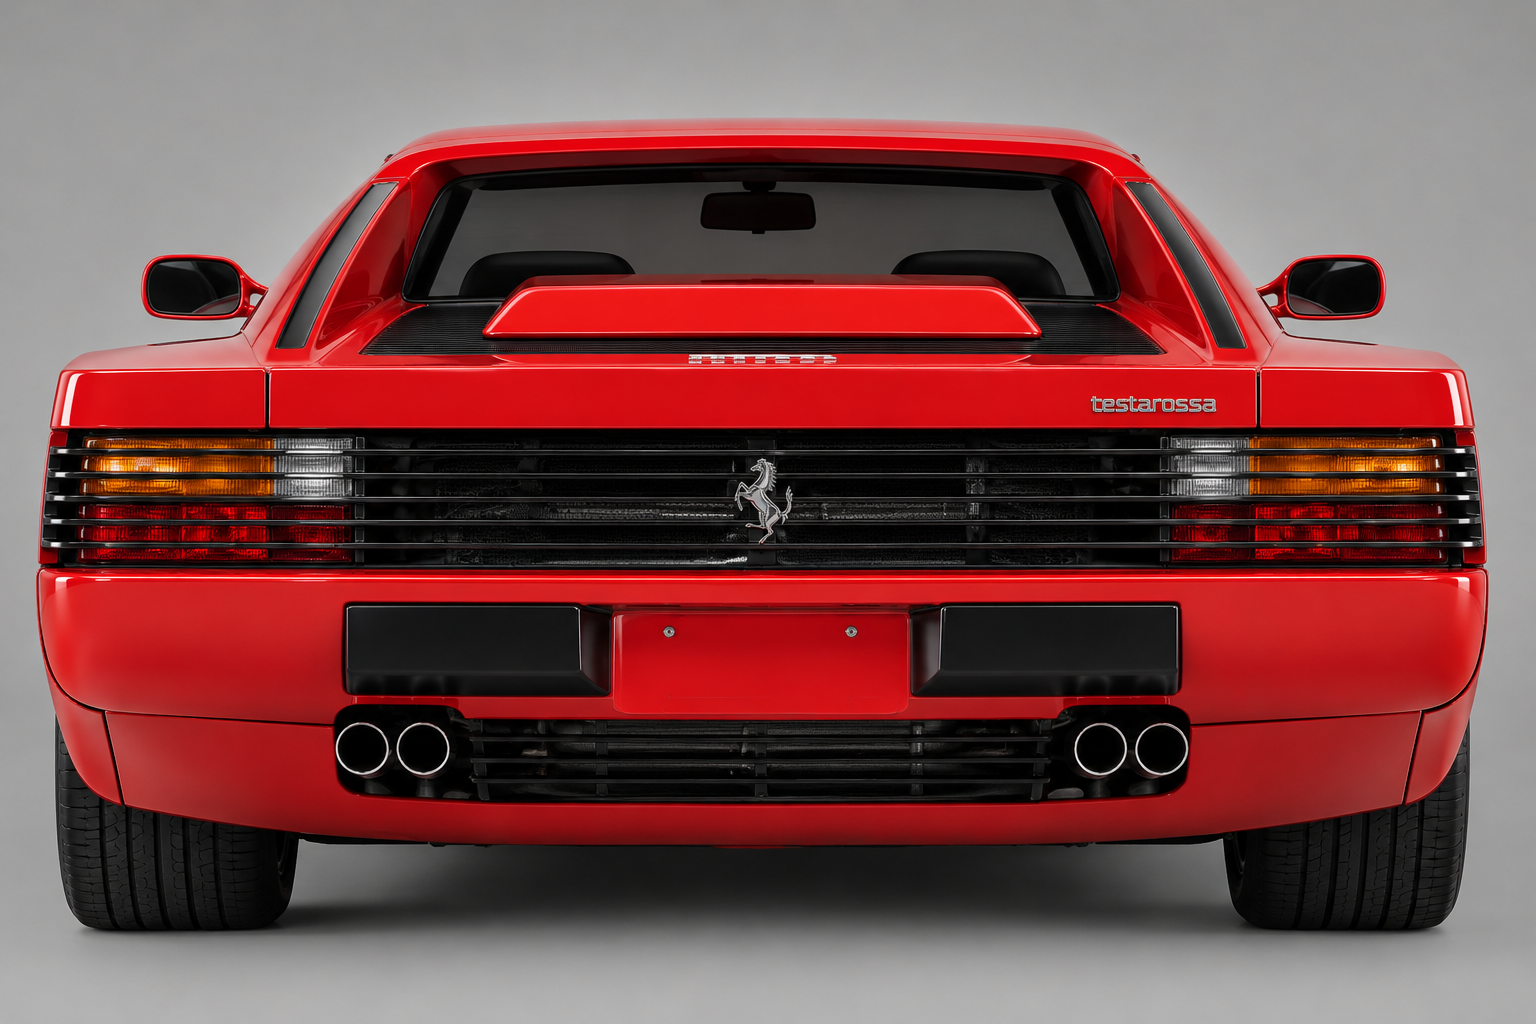
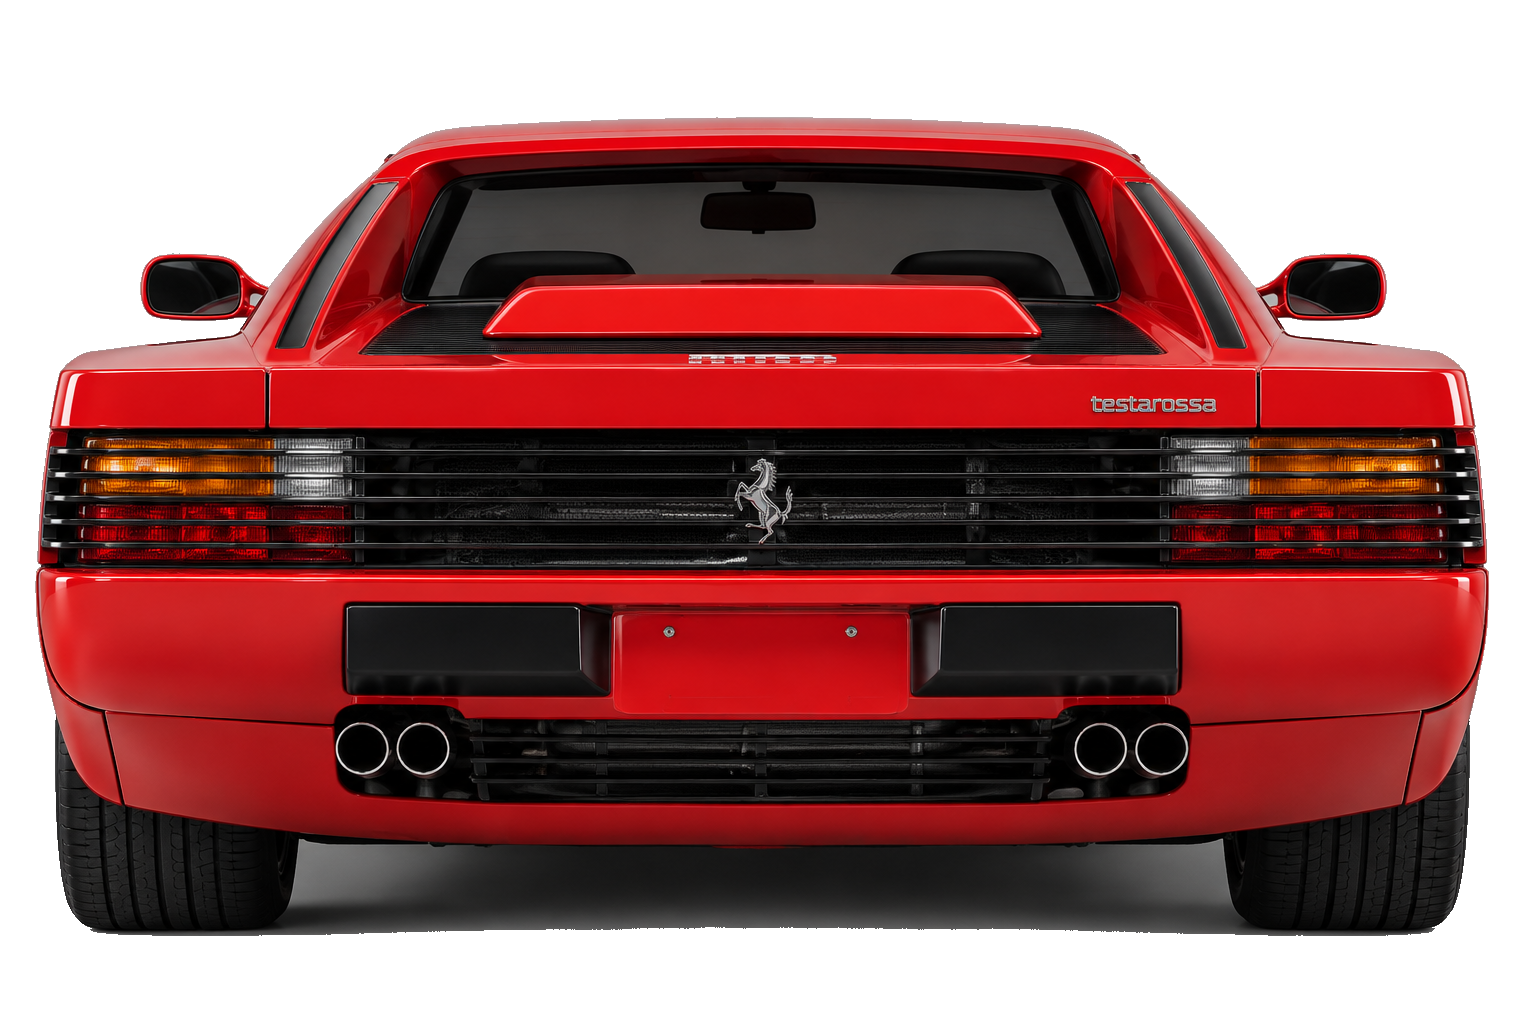
PIC-3 TESTAROSSA's rear view on a white background
The rear view stood on a grey background, which the white-background rule took for the vehicle: the rear outline
allowed everything, so the solid's cabin was a box. The view is cut out, and the command refuses a white view whose
border shows no white.

Claude-Session: https://claude.ai/code/session_01AYKysEvhmLqpY7hmsvh7qs

diff --git a/tools/graphics/vehicle-solid.ts b/tools/graphics/vehicle-solid.ts
@@ -156,6 +156,7 @@ export function readViewPicture(
     for (let x = 0; x < width; x++) border.push(x, (height - 1) * width + x);
     for (let y = 0; y < height; y++) border.push(y * width, y * width + width - 1);
     outside = flood(candidate, width, height, border);
+    if (!outside.includes(1)) throw new RangeError('A view shows no white background at its border');
   }
   const vehicle = outside.map((cell) => +!cell);
   const { labels, sizes } = label(vehicle, width, height);

diff --git a/docs/image-assets.md b/docs/image-assets.md
@@ -348,7 +348,8 @@ saved it is the authority for that vehicle's pictures, and the command replaces 
 view with the nose to the left and the tyres on the road, the top view with the nose to the left, the front and rear
 views upright. The background is either near-white (`background: "white"`: pixels within 45 of white, summed over the
 channels, joined to the picture's border) or transparent (`"alpha"`: alpha below 128); the vehicle is the largest part
-that is not background. The views need not share a scale or agree exactly: the mechanics document is the one
+that is not background. A view taken against anything else is cut out before it is saved; the command refuses a
+`white` view whose border shows no white. The views need not share a scale or agree exactly: the mechanics document is the one
 authority for the vehicle's dimensions, and each view is fitted to it.
 
 **Recipe.** `superoutride.vehicle-picture-recipe` version 1; rows and columns are pixel-centre coordinates of the named
@@ -416,6 +417,7 @@ slot 15; any other texel takes the nearest color among the neutrals and accents 
 the set names the same slots, so a color variant replaces the body colors and keeps the rest. By the contract's lamp
 rule, sizes 1 to 4 turn each lamp's fullest texel into a lamp texel when no texel of that lamp reached half.
 
-TESTAROSSA's saved set is a finished one, made with this generator's prototype and tuned by eye; the command's draft of
-it differs in detail. Its body colors follow the reds of the reference game's car as seen in a screenshot; its
+TESTAROSSA's saved set is a finished one, made with this generator's prototype and tuned by eye. The command's draft of
+it has the same shape, shading and shadows and differs in about one texel in a hundred: the prototype gave dark red
+texels that are not paint (the side strakes' gaps) a body color, where the command gives them a neutral. Its body colors follow the reds of the reference game's car as seen in a screenshot; its
 `alternate` is a yellow of the same steps. The reference photographs and screenshots used to judge a set are not saved here.
